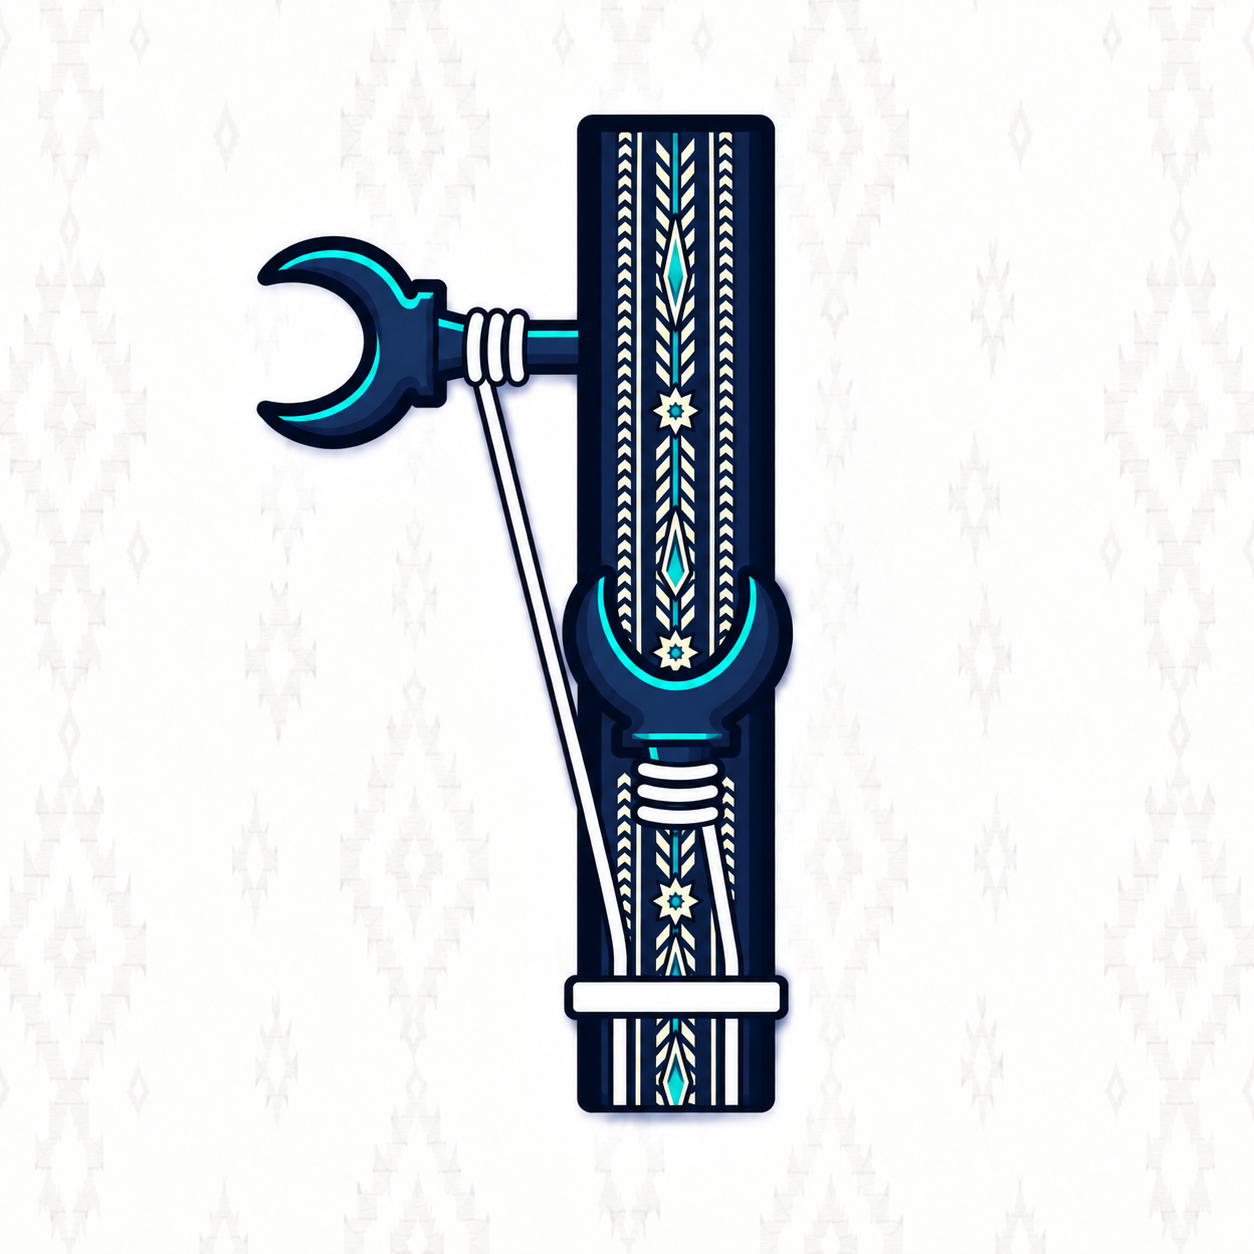
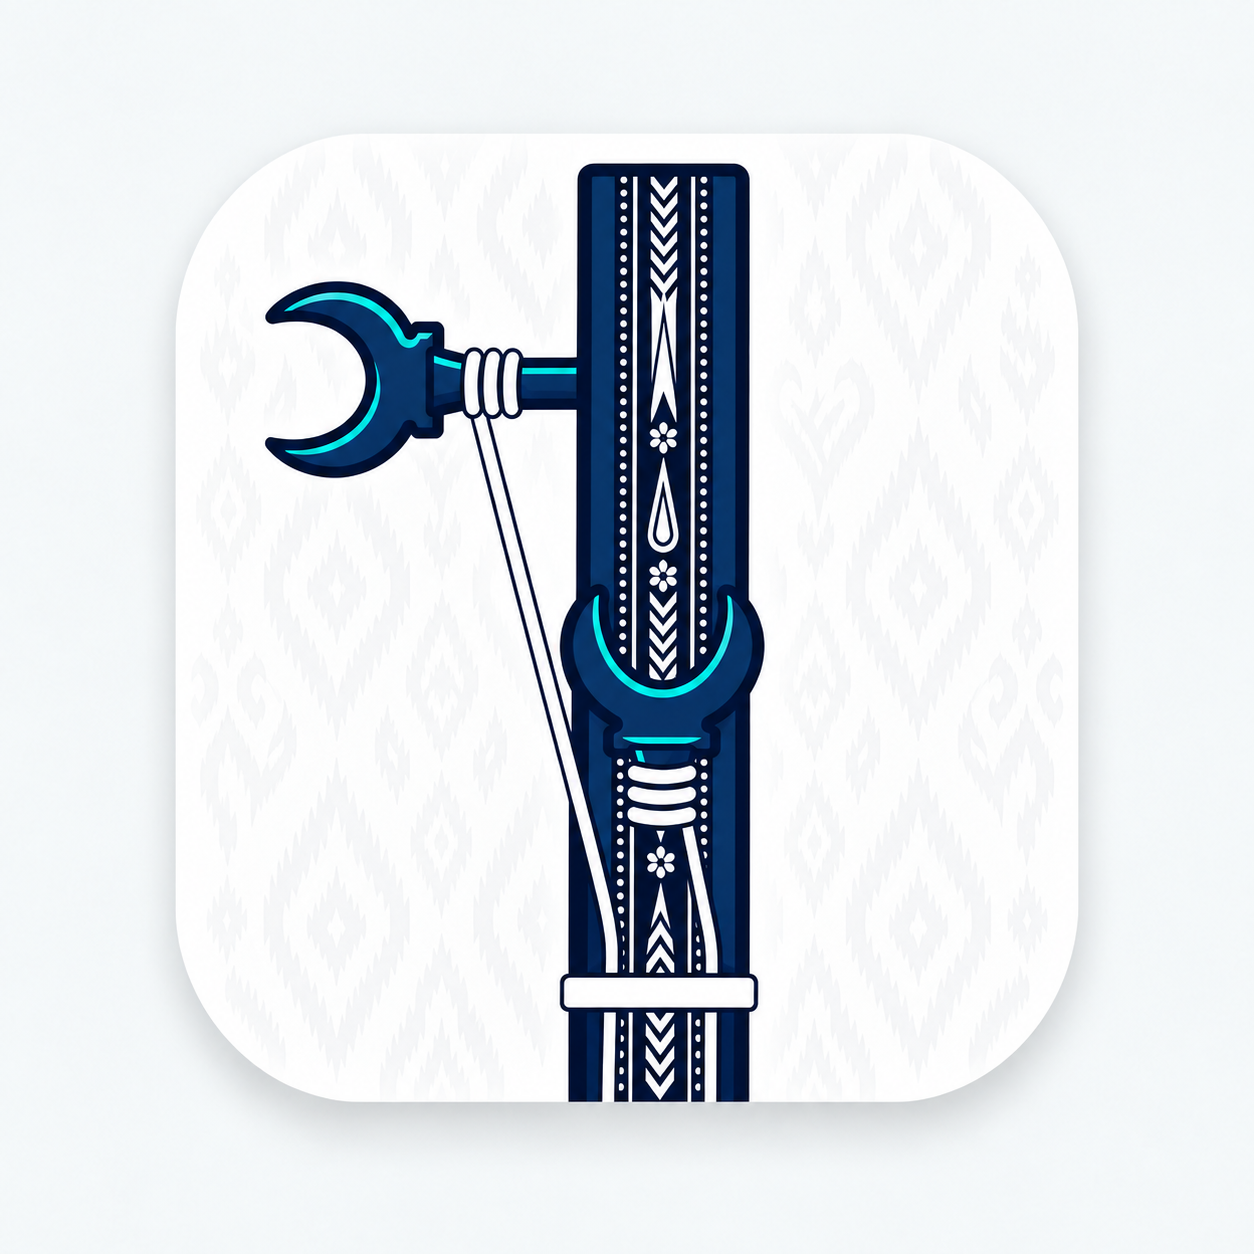
Refresh splash artwork and sharpen tuner feedback

Changed region(s): [[0.1555, 0.0933, 0.8708, 0.933], [0.1244, 0.2488, 0.1555, 0.8086]]

diff --git a/www/index.html b/www/index.html
@@ -66,7 +66,7 @@
           <g class="gauge-center" aria-hidden="true"><circle class="target-halo" cx="105" cy="93" r="12"/><circle class="target-ring" cx="105" cy="93" r="7"/><circle class="target-core" cx="105" cy="93" r="2.6"/></g>
         </svg>
         <span class="gauge-label flat" data-i18n="flat">PES</span><span class="gauge-label sharp" data-i18n="sharp">TİZ</span>
-      <div class="tuning-complete-message" id="tuningCompleteMessage" role="status" aria-live="polite" hidden aria-label="Akort tamamlandı"><svg viewBox="0 0 52 52" aria-hidden="true"><circle class="completion-ring" cx="26" cy="26" r="23"/><path class="completion-check" d="M14 26L22 34L38 18"/></svg></div>
+      <div class="tuning-complete-message" id="tuningCompleteMessage" role="status" aria-live="polite" hidden aria-label="Akort tamamlandı"><svg viewBox="0 0 52 52" aria-hidden="true"><circle class="completion-ring" cx="26" cy="26" r="23"/><defs><mask id="completion-check-reveal" maskUnits="userSpaceOnUse" x="0" y="0" width="52" height="52"><path class="completion-check" d="M12 25L22 34L40 13"/></mask></defs><path class="completion-glyph" d="M12 25L21 31L40 13L23 38Z" mask="url(#completion-check-reveal)"/></svg></div>
       </div>
       <div class="status" id="status" data-i18n="ready">HAZIR</div>
       <div class="pitch-row"><div class="note" id="note">RE</div><div class="cents" id="cents">0 cent</div></div>
@@ -79,8 +79,8 @@
           <img src="dutar-head.png" alt="Duttar burguluk ve sapı" width="1254" height="1254">
           <svg class="string-light-overlay" viewBox="0 0 1254 1254" aria-hidden="true">
 <defs><filter id="string-soft-glow" x="-60%" y="-30%" width="220%" height="160%" color-interpolation-filters="sRGB"><feGaussianBlur stdDeviation="8"/></filter></defs>
-<g class="string-light light-0"><g class="string-radiance"><path class="string-glow" d="M653 828 Q692 838 731 829 M653 854 Q691 864 731 855 M653 880 Q692 890 731 881 M729 896 C740 946 757 1013 758 1056 L758 1081 M758 1129 V1211"/><path class="string-aura" d="M653 828 Q692 838 731 829 M653 854 Q691 864 731 855 M653 880 Q692 890 731 881 M729 896 C740 946 757 1013 758 1056 L758 1081 M758 1129 V1211"/></g><path class="string-glint" d="M653 828 Q692 838 731 829 M653 854 Q691 864 731 855 M653 880 Q692 890 731 881 M729 896 C740 946 757 1013 758 1056 L758 1081 M758 1129 V1211"/></g>
-<g class="string-light light-1"><g class="string-radiance"><path class="string-glow" d="M456 285 Q446 318 451 348 M479 285 Q469 318 475 348 M503 285 Q494 318 501 348 M456 362 L617 1026 Q625 1051 625 1081 M625 1129 V1211"/><path class="string-aura" d="M456 285 Q446 318 451 348 M479 285 Q469 318 475 348 M503 285 Q494 318 501 348 M456 362 L617 1026 Q625 1051 625 1081 M625 1129 V1211"/></g><path class="string-glint" d="M456 285 Q446 318 451 348 M479 285 Q469 318 475 348 M503 285 Q494 318 501 348 M456 362 L617 1026 Q625 1051 625 1081 M625 1129 V1211"/></g>
+<g class="string-light light-0"><g class="string-radiance"><path class="string-glow" d="M685 840 Q728 852 772 840 M685 867 Q728 879 772 867 M685 894 Q728 906 772 894 M761 916 C770 970 791 1030 796 1085 M796 1148 V1238"/><path class="string-aura" d="M685 840 Q728 852 772 840 M685 867 Q728 879 772 867 M685 894 Q728 906 772 894 M761 916 C770 970 791 1030 796 1085 M796 1148 V1238"/></g><path class="string-glint" d="M685 840 Q728 852 772 840 M685 867 Q728 879 772 867 M685 894 Q728 906 772 894 M761 916 C770 970 791 1030 796 1085 M796 1148 V1238"/></g>
+<g class="string-light light-1"><g class="string-radiance"><path class="string-glow" d="M490 282 Q480 318 488 360 M516 282 Q506 318 514 360 M542 282 Q532 318 540 360 M496 374 L653 1000 Q663 1045 664 1085 M663 1148 V1238"/><path class="string-aura" d="M490 282 Q480 318 488 360 M516 282 Q506 318 514 360 M542 282 Q532 318 540 360 M496 374 L653 1000 Q663 1045 664 1085 M663 1148 V1238"/></g><path class="string-glint" d="M490 282 Q480 318 488 360 M516 282 Q506 318 514 360 M542 282 Q532 318 540 360 M496 374 L653 1000 Q663 1045 664 1085 M663 1148 V1238"/></g>
 </svg>
         </div>
       </div>

diff --git a/www/layout-polish.css b/www/layout-polish.css
@@ -42,16 +42,17 @@ img{-webkit-user-drag:none}
 #tunerPanel .string-card.completed,:root[data-theme=dark] #tunerPanel .string-card.completed{background:var(--tuner-success-surface);border-color:var(--tuner-success-border);box-shadow:inset 0 0 0 1px var(--tuner-success-border)}
 #tunerPanel .string-card.completed .string-note{color:var(--tuner-success-ink)}
 #tunerPanel .string-title{display:flex;align-items:center;gap:7px}
-#tunerPanel .string-card.completed .string-title::after{content:'✓';font-family:system-ui,sans-serif;font-size:16px;color:var(--tuner-success-ink)}
+#tunerPanel .string-card.completed .string-title::after{content:'';width:17px;height:17px;flex:0 0 17px;background:var(--tuner-success-ink);clip-path:polygon(7% 45%,34% 63%,94% 8%,40% 94%)}
 #tunerPanel .string-card.complete-pulse{animation:confirmed-card-glow .55s ease-out}
 @keyframes confirmed-card-glow{0%,100%{box-shadow:inset 0 0 0 1px var(--tuner-success-border),0 0 0 0 transparent}40%{box-shadow:inset 0 0 0 1px var(--tuner-success-border),0 0 0 5px var(--tuner-success-glow)}}
 #tunerPanel .tuner-card.all-complete{border-color:var(--tuner-success-border);box-shadow:var(--shadow),0 0 20px var(--tuner-success-glow)}
 .tuning-complete-message{position:absolute;top:55%;background:var(--tuner-success-surface);color:var(--tuner-success-ink);border:1px solid var(--tuner-success-border);box-shadow:0 8px 30px #0003,0 0 20px var(--tuner-success-glow)}
 .tuning-complete-message svg{width:52px;height:52px;fill:none;stroke:currentColor;stroke-linecap:round;stroke-linejoin:round}
 .completion-ring{stroke-width:2;opacity:.5;transform:rotate(-90deg);transform-origin:center}
-.completion-check{stroke-width:3.5}
-.tuning-complete-message.visible .completion-ring{animation:completion-draw .85s ease-out both}
-.tuning-complete-message.visible .completion-check{animation:completion-draw .65s .15s ease-out both}
+.completion-glyph{fill:currentColor;stroke:none}
+.completion-check{stroke:#fff;stroke-width:11;stroke-linecap:square;stroke-linejoin:miter}
+.tuning-complete-message.visible .completion-ring{animation:completion-draw .42s ease-out both}
+.tuning-complete-message.visible .completion-check{animation:completion-draw .32s .06s ease-out both}
 @keyframes completion-draw{from{stroke-dashoffset:var(--completion-length)}to{stroke-dashoffset:0}}
 @media(prefers-reduced-motion:reduce){#tunerPanel .string-card.complete-pulse,.tuning-complete-message.visible .completion-ring,.tuning-complete-message.visible .completion-check{animation:none}}
 @media(max-height:650px){#tunerPanel .pitch-row,#tunerPanel .status{top:-2px}#tunerPanel .instrument-wrap{transform:translateY(-3px)}}

diff --git a/www/ui.css b/www/ui.css
@@ -49,7 +49,8 @@ button:disabled{cursor:default;opacity:.5}
 .library-filters svg,.library-empty svg,.song-favorite-btn svg{width:20px;height:20px;flex:none;fill:none;stroke:currentColor;stroke-width:1.8;stroke-linecap:round;stroke-linejoin:round}
 .library-filters button[data-category=favorites][aria-pressed=true] svg{fill:currentColor}
 .library-levels{display:flex;gap:6px;overflow-x:auto;padding:3px 2px 10px;margin-bottom:8px;scrollbar-width:thin}
-.library-levels button{flex:0 0 auto;min-height:44px;border:1px solid var(--line);border-radius:22px;padding:9px 12px;background:var(--card);color:var(--muted);font-size:12px;font-weight:600}
+.library-levels button{flex:0 0 auto;min-height:44px;border:1px solid var(--line);border-radius:22px;padding:9px 17px;background:var(--card);color:var(--muted);font-size:12px;font-weight:600}
+.library-levels button[data-level]:not([data-level=all]){min-width:88px}
 .library-levels button[aria-pressed=true]{border-color:var(--accent-bg);background:var(--mint);color:var(--navy)}
 .library-group{display:grid;gap:10px}
 .library-group+.library-group{margin-top:12px}
@@ -81,7 +82,7 @@ button:disabled{cursor:default;opacity:.5}
 .language-options button,.onboard-deny{background:var(--surface-soft);color:var(--navy);border-color:var(--line);min-height:48px}
 html[dir=rtl] .song-card-copy{text-align:right}
 html[dir=rtl] .library-filters button span{font-size:13px;line-height:1.4;overflow-wrap:anywhere}
-@media(max-width:360px){#songsPanel .library-filters button{font-size:11px}#songsPanel .song-card{grid-template-columns:40px minmax(0,1fr);gap:9px;padding-inline-start:10px;padding-inline-end:46px}#songsPanel .song-card-title{font-size:15px}.library-levels button{padding-inline:10px}.song-favorite-btn{inset-inline-end:1px}}
+@media(max-width:360px){#songsPanel .library-filters button{font-size:11px}#songsPanel .song-card{grid-template-columns:40px minmax(0,1fr);gap:9px;padding-inline-start:10px;padding-inline-end:46px}#songsPanel .song-card-title{font-size:15px}.library-levels button{padding-inline:13px}.song-favorite-btn{inset-inline-end:1px}}
 
 /* Familiar score icons; color communicates the saved level. */
 #songsPanel .song-card-icon{background:var(--surface-soft);color:var(--muted);width:48px;height:48px;min-width:48px}

diff --git a/www/tuner-visuals.css b/www/tuner-visuals.css
@@ -14,7 +14,7 @@
 :root[data-theme=dark] .string-glow{stroke:#83f4d5;stroke-opacity:.7}
 :root[data-theme=dark] .string-glint{stroke:#f0fff9}
 #tunerPanel .tuner-artwork img{z-index:1}
-#tunerPanel .string-light-overlay{z-index:5;transform:translate(2px,2px)}
+#tunerPanel .string-light-overlay{z-index:5;transform:none}
 /* Fixed target remains distinguishable from the moving needle. */
 .zero-target{pointer-events:none;fill:none;stroke-linecap:round}.zero-target-outline{stroke:var(--card);stroke-width:5}.zero-target-line{stroke:var(--navy);stroke-width:2}.zero-confirm{stroke:var(--good);stroke-width:3;opacity:0;transform-box:fill-box;transform-origin:center}
 #tunerPanel .accuracy-marks{display:none}

diff --git a/www/app.js b/www/app.js
@@ -5614,7 +5614,7 @@ async function playCompletionFeedback(completedIndex,allComplete){
         hz,
         now+(index*.18),
         index===2 ? .55 : .3,
-        index===2 ? .14 : .11
+        index===2 ? .21 : .165
       );
     });
   }else{
@@ -5623,9 +5623,9 @@ async function playCompletionFeedback(completedIndex,allComplete){
       calibratedHz(targets[completedIndex].hz)*2,
       now,
       .42,
-      .12
+      .18
     );
-    createPluck(completionAudioCtx,calibratedHz(targets[completedIndex].hz)*3,now+.12,.3,.08);
+    createPluck(completionAudioCtx,calibratedHz(targets[completedIndex].hz)*3,now+.12,.3,.12);
   }
 }
 

diff --git a/artwork/splash-card/README.md b/artwork/splash-card/README.md
@@ -1,0 +1,16 @@
+# Splash card update
+
+Built-in image_gen generated the app card and light/dark splash masters. New white-ornament head and full navy dutar reused from the preceding preview. Native exports retain the new artwork. Text and card share the visual centerline in the splash masters.
+
+## Card prompt
+
+Use case: precise-object-edit/compositing. Image 1 is the existing app icon/card composition to EDIT, image 2 is the exact NEW logo insert. Replace the old turquoise-loop dutar head in image 1 with image 2's navy/turquoise head with WHITE chevrons, flowers and teardrop inlays. Keep all new logo details, strings and pegs. Keep image 1 rounded-square white card silhouette and subtle drop shadow on a very pale grey square canvas. Add extremely faint neutral white/grey Uyghur etles ikat textile pattern inside the card (about 3% contrast). Logo sits comfortably inside the card, with slim equal top/bottom margins, avoid cutting strings or any part except normal neck bottom crop. Optically center the whole visible logo including crescent peg within the card; do not center only the vertical neck. Clean high resolution flat illustration, no extra gloss. No text or ornaments outside card. Single square app icon card, opaque background. Match original 1254x1254 composition.
+
+## Light splash prompt
+
+Use case: compositing. Produce a production mobile SPLASH SCREEN, portrait 9:19.5, similar whitespace and layout scale to reference 1 SplashLogo. Reference 1 is the splash layout to edit; reference 2 is the new rounded-square CARD with WHITE-ORNAMENT logo to insert. Replace old freestanding turquoise-loop logo with the rounded-square card from reference2, including very faint etles pattern within card. Preserve white ornament on new logo, navy/cyan palette. Card fully visible, visible width about 34% of screen width, visible square shape (not tall rectangle), around screen horizontal center and around y=45% vertical center. Group must remain compact and elegant with large empty margins, suitable for center cropping on tablets. Keep the exact text "Duttarim" below card in same elegant serif style as reference1. Retain small cyan four-point sparkle on each side of word and thin cyan line with center diamond and small endpoints below word. ALIGNMENT CRITICAL: card, logo visual mass, wordmark and diamond on one shared x=50% visual centerline, NO left-shifted text, consistent symmetric spacing. Gap from card bottom to word around2% of screen height. No extra words, phone bezel, status bar or loading indicators. Do not enlarge branding to fill screen. LIGHT theme: white/off-white background with extremely faint etles pattern as reference1. Card white, subtle shadow. Wordmark navy, decorations cyan. Opaque image.
+
+## Dark splash prompt
+
+Use case: compositing. Produce a production mobile SPLASH SCREEN, portrait 9:19.5, similar whitespace and layout scale to reference 1 SplashLogo. Reference 1 is the splash layout to edit; reference 2 is the new rounded-square CARD with WHITE-ORNAMENT logo to insert. Replace old freestanding turquoise-loop logo with the rounded-square card from reference2, including very faint etles pattern within card. Preserve white ornament on new logo, navy/cyan palette. Card fully visible, visible width about 34% of screen width, visible square shape (not tall rectangle), around screen horizontal center and around y=45% vertical center. Group must remain compact and elegant with large empty margins, suitable for center cropping on tablets. Keep the exact text "Duttarim" below card in same elegant serif style as reference1. Retain small cyan four-point sparkle on each side of word and thin cyan line with center diamond and small endpoints below word. ALIGNMENT CRITICAL: card, logo visual mass, wordmark and diamond on one shared x=50% visual centerline, NO left-shifted text, consistent symmetric spacing. Gap from card bottom to word around2% of screen height. No extra words, phone bezel, status bar or loading indicators. Do not enlarge branding to fill screen. DARK theme: midnight navy #08121F background with very faint blue etles pattern matching light theme contrast. Card charcoal navy with subtly lighter etles pattern and soft edge, new blue logo legible and white inlay bright. Wordmark soft white, decorations cyan. No white card or heavy glowing halo in dark theme. Opaque image.
+

diff --git a/artwork/splash-card/refinement-prompts.md b/artwork/splash-card/refinement-prompts.md
@@ -1,0 +1,9 @@
+Built-in image_gen refinement prompts, applied to the light and dark splash masters.
+
+## Light
+
+Use case: precise-object-edit. Edit this exact light Duttarim splash screen. Change ONLY the etles background contrast. OUTSIDE the rounded-square logo card, make the existing very faint white/grey etles pattern a little more visible, about 35% stronger than current contrast, remaining subtle pale neutral grey on white. INSIDE the rounded-square logo card, reduce pattern contrast by about 65%, making it quiet and nearly white so the logo dominates. Preserve exact dimensions, composition, card outline and position, logo and its white inlays, the word "Duttarim", cyan ornaments, their positions, sizes and alignment. No other changes. No new motifs, glow, borders or shadows. Full opaque image.
+
+## Dark
+
+Use case: precise-object-edit. Edit this exact dark Duttarim splash screen. Change ONLY the rounded-square card BACKGROUND behind the logo: it is too bright blue with an overly strong etles pattern. Darken the card base substantially to a restrained midnight navy close to the surrounding background, and reduce its pattern contrast by about 75% so the pattern is barely visible. Keep the rounded-square outline distinguishable only subtly. Do NOT darken the actual blue/turquoise head logo, white inlays, strings or fret. Preserve all surrounding page background and pattern, dimensions, composition, exact card position, logo, word "Duttarim", cyan ornaments and alignment unchanged. No glow, no extra lighting or border. Full opaque image.
